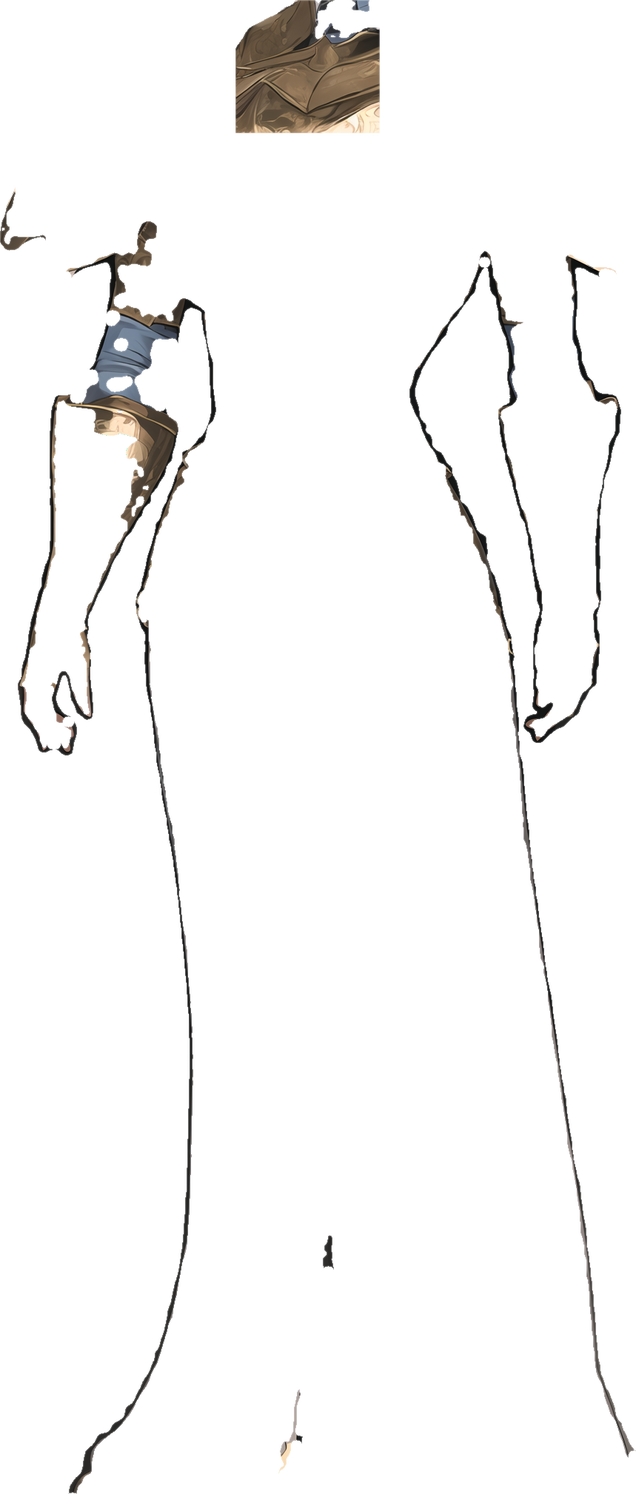
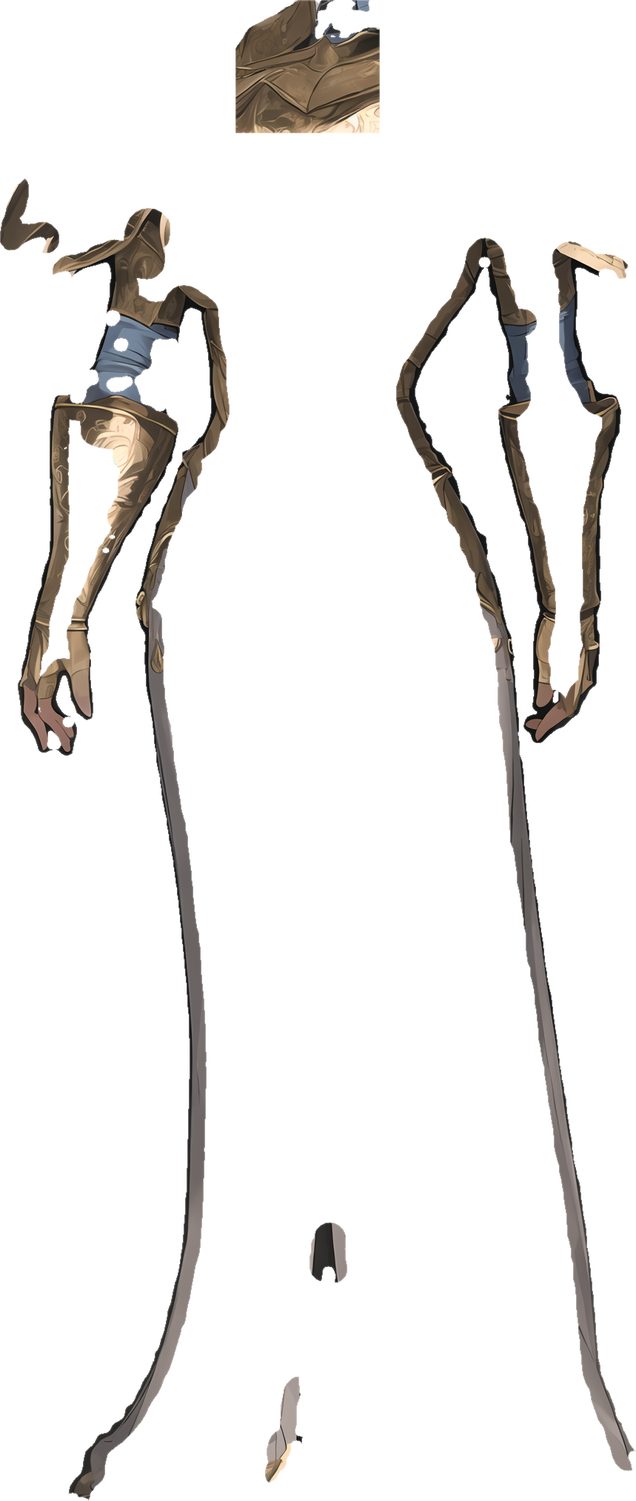
Strike keyframes for the demo character + anti-tearing overlap pass
- export.keyframe: identity-diff union matting (trust SAM only where
  pixels changed; reuse the proven character matte elsewhere), row-wise
  background keying, and near-black costume keying - the combination that
  keeps a black cape intact through a repositioned pose
- cleanup.assemble: overlap_px expansion - lower-z layers clone source
  pixels under higher-z neighbors so motion reveals costume instead of
  background gaps; rest-pose composite stays pixel-identical
- examples/mira: kf_windup/kf_swing shipped, rig pack rebuilt with 18px
  overlap, README GIFs re-rendered, production notes updated

diff --git a/src/img2rig/export.py b/src/img2rig/export.py
@@ -222,6 +222,46 @@ def keyframe(spec: Spec, client: Client, frame_name: str,
         if stats2[i, cv2.CC_STAT_AREA] < 0.003 * total:
             keep[lab2 == i] = 1
 
+    # Identity-diff composite: a route-B (masked inpaint) keyframe is
+    # pixel-identical to the base outside the repainted region, and the base
+    # figure already has a *proven* matte from the layer-pack build. So trust
+    # SAM only where pixels actually changed (the new pose), and reuse the
+    # validated character matte everywhere else - this is what keeps
+    # near-black capes and other SAM-hostile costume pieces intact.
+    char_path = os.path.join(spec.work_dir, "masks", "mask_character.png")
+    if os.path.exists(char_path):
+        char = np.array(Image.open(char_path).convert("L").resize((W, H))) > 127
+        changed = cv2.dilate(diff, np.ones((31, 31), np.uint8)).astype(bool)
+        # union, never subtraction: SAM's matte plus every proven-character
+        # pixel that provably didn't change. Repainted-but-similar regions
+        # (inpaint recreating the same costume) stay whatever SAM said.
+        #
+        # One trap in the union: where the base had dark costume and the
+        # repaint put similar-valued *background* (cape moved away), the
+        # pixel diff is small and the union would matte background in. The
+        # frame's outer margins are guaranteed background, so build a
+        # row-wise background color model and drop union additions that
+        # match their row's background.
+        im_arr = np.asarray(im, np.int16)
+        margin = np.concatenate([im_arr[:, :90], im_arr[:, -90:]], axis=1)
+        bg_row = np.median(margin, axis=1)
+        bg_like = np.abs(im_arr - bg_row[:, None, :]).sum(2) < 60
+        added = char & ~changed & ~keep.astype(bool) & ~bg_like
+        keep = (keep.astype(bool) | added).astype(np.uint8)
+        # Dark-costume key: SAM reliably refuses near-black costume (capes)
+        # against a soft gradient, and a repositioned cape extends beyond the
+        # base silhouette so the identity union can't rescue it either. On a
+        # light background, near-black pixels adjacent to the figure can only
+        # be costume - key them in directly.
+        if bg_row.sum(axis=1).mean() > 300:  # only for clearly light backdrops
+            dark = im_arr.sum(2) < 270
+            near = cv2.dilate(keep, cv2.getStructuringElement(
+                cv2.MORPH_ELLIPSE, (181, 181))).astype(bool)
+            keep = (keep.astype(bool) | (dark & near)).astype(np.uint8)
+        keep = cv2.morphologyEx(keep, cv2.MORPH_CLOSE, np.ones((9, 9), np.uint8))
+        print(f"identity-diff union: changed {changed.mean():.1%}, "
+              f"matte {keep.mean():.3f}")
+
     # soft edge, then color bleed: a keyframe is one flat image, so TELEA
     # from the silhouette outward is enough (the layer pack uses the
     # iterative bleed instead)

diff --git a/src/img2rig/cleanup.py b/src/img2rig/cleanup.py
@@ -504,6 +504,33 @@ def assemble(spec: Spec, base4k_path: str, variant4k_path: str | None = None,
                 rem2 |= lr == i
     excl["body_remainder"] = rem2
 
+    # Overlap expansion - the anti-tearing pass. Mutual exclusion gives every
+    # pixel exactly one owner, so any relative layer motion opens a gap that
+    # shows the background. Fix: each layer additionally clones source pixels
+    # a few px into territory owned by HIGHER-z layers. At rest the clone is
+    # hidden under the upper layer (composite is pixel-identical); in motion
+    # the gap reveals painted costume instead of a hole. Lower extends under
+    # upper only, so top silhouettes stay crisp. Small facial parts are
+    # skipped - their backing is head_base's job (eye pad / hair rim).
+    overlap = cfg.get("overlap_px", 14)
+    if overlap > 0:
+        rig_layers = spec.get("rig", {}).get("layers", {})
+        z_of = {n: rig_layers[n].get("z", 0) for n in excl if n in rig_layers}
+        facial = {"eye_L", "eye_R", "brow_L", "brow_R", "mouth"}
+        k = _kernel(2 * overlap + 1)
+        ext: dict[str, np.ndarray] = {}
+        for n, z in z_of.items():
+            if n in facial or not excl[n].any():
+                continue
+            higher = np.zeros((H, W), bool)
+            for m, mz in z_of.items():
+                if mz > z:
+                    higher |= excl[m]
+            grow = cv2.dilate(excl[n].astype(np.uint8), k).astype(bool)
+            ext[n] = excl[n] | (grow & higher & dom)
+        for n, m in ext.items():
+            excl[n] = m
+
     for n, m in excl.items():
         save_mask(spec, f"final_{n}", m)
     save_mask(spec, "final_character", dom)

diff --git a/examples/mira/README.md b/examples/mira/README.md
@@ -31,3 +31,11 @@ Notes from her production run (also folded into the agent playbook):
 - A cloned "neck pad" was added to the z1 underlay so head sway reveals
   painted collar instead of background — the cheap version of occlusion
   backfill, good enough below ~0.1 rad of head travel.
+- Layer tearing under big motion (stagger-scale leans) was eliminated by
+  the assemble stage's `overlap_px: 18` expansion; her rest-pose composite
+  is pixel-identical with or without it (flatten diff 0.65% both ways).
+- `rig/kf_windup.png` / `rig/kf_swing.png` are her full-frame strike
+  keyframes (booru-tag weighted img2img over the base, matted by SAM +
+  identity-diff union + dark-costume keying — the near-black cape survives
+  none of the three alone). The C++ runtime swaps them in during
+  `strikeWindup`/`strikeRelease`; the Python preview doesn't use them.

diff --git a/docs/pipeline.md b/docs/pipeline.md
@@ -86,6 +86,12 @@ loop. Key algorithms:
 - Assembly is mutual-exclusion by priority (mask-confidence order, first
   grab wins), with a small morphological close (a big radius swallows
   neighboring parts) and connected-component filtering on the remainder.
+- **Overlap expansion** (`assemble.overlap_px`) is the anti-tearing pass:
+  after exclusion, each lower-z layer clones source pixels a few px into
+  its higher-z neighbors' territory. The clone is invisible at rest (the
+  upper layer covers it) and is exactly what motion reveals instead of a
+  background-colored gap. The flatten-diff QA proves the rest pose is
+  pixel-identical either way.
 
 **[5] Export.**
 - 2 px alpha feather (premultiplied pipelines turn dirty edges into dark
